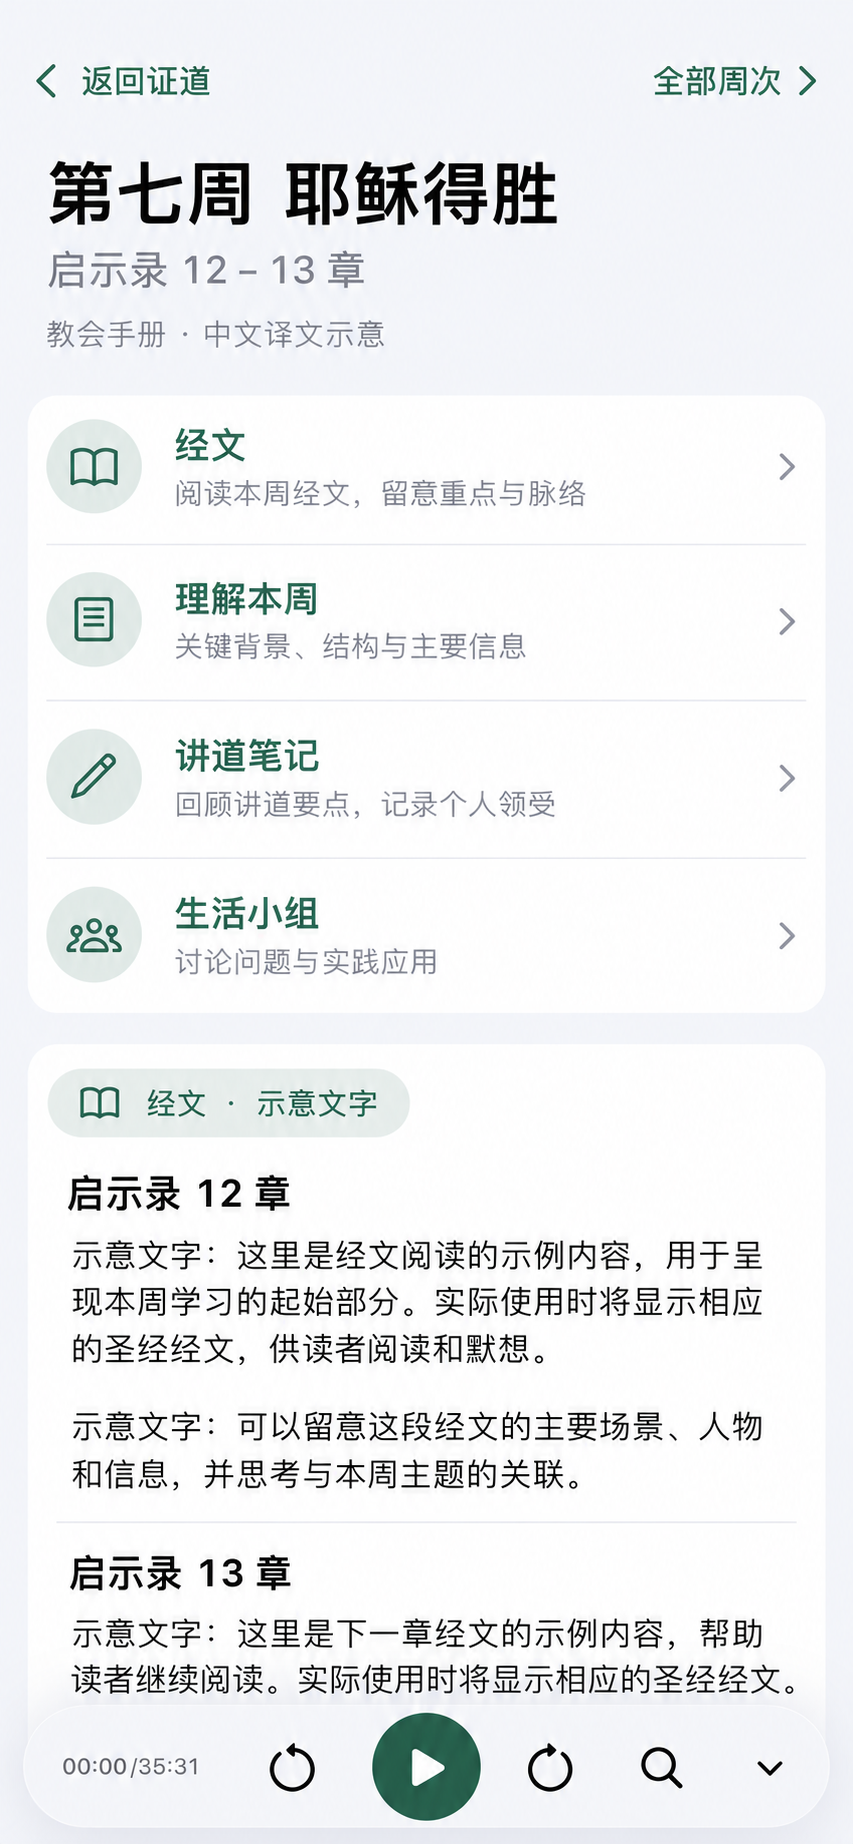
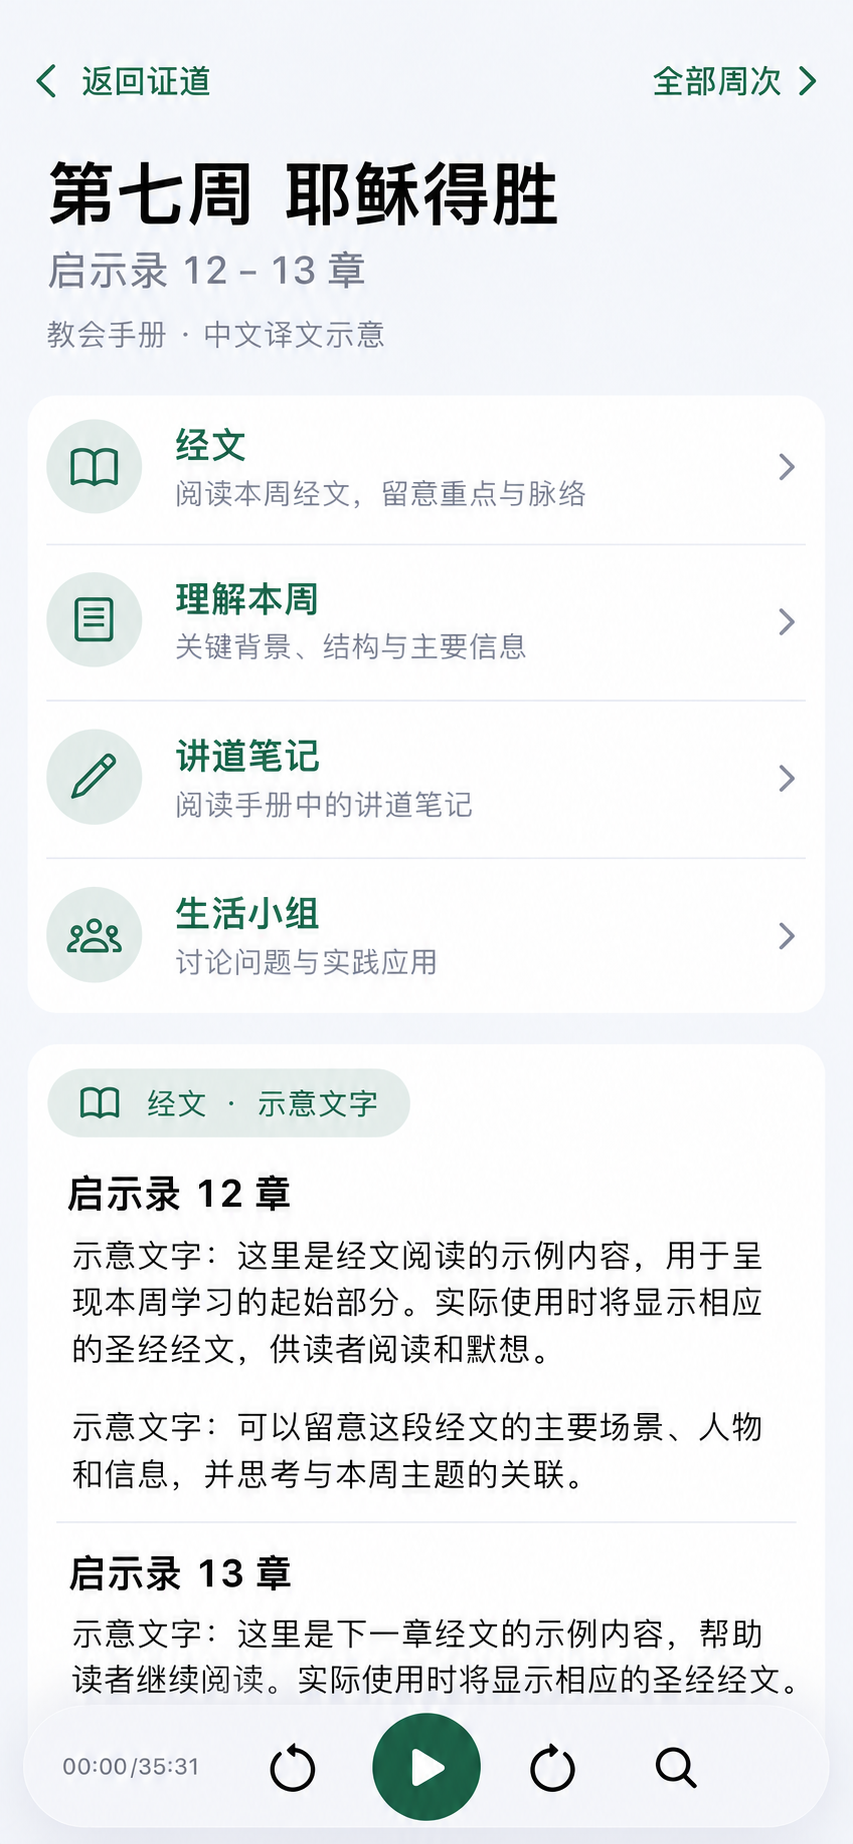
docs: show guide entry and simplify playback bar

diff --git a/docs/design/tongxing-weekly-study-guide.zh.md b/docs/design/tongxing-weekly-study-guide.zh.md
@@ -21,7 +21,11 @@
 
 ### 从证道进入
 
-在当前证道原研读入口的位置显示「本周研读手册」。只有目录有明确关联时才展示入口；没有关联时不额外占据证道页面，也不猜测周次。入口旁可显示「第 7 周 · 启示录 12–13 章」。点入以系统导航和阅读页呈现，返回后仍是原证道和原播放状态；阅读不会启动、暂停或重置播放器。若手册正在加载，显示加载状态；下载失败提供重试及可用的已验证离线版本提示，退出阅读不影响证道。
+在首页当前讲道标题下、语言控制附近的原研读入口位置显示一行「本周研读手册」：左侧用同行绿的系统书本图标（候选 SF Symbols `book`），右侧为前进指示；图标与文字组成同一个完整点击区域，VoiceOver 读出「本周研读手册」，不能只靠图标辨义。只有目录有明确关联时才展示入口；没有关联时不额外占据证道页面，也不猜测周次。点入以系统导航和阅读页呈现，返回后仍是原证道和原播放状态；阅读不会启动、暂停或重置播放器。若手册正在加载，显示加载状态；下载失败提供重试及可用的已验证离线版本提示，退出阅读不影响证道。
+
+![首页手册入口概念图](../assets/tongxing-weekly-guide-home-concept.png)
+
+首页图是 AI 生成的布局示意，不是运行截图；其示例讲道与下方第 7 周阅读页是各自的示意状态，不代表已核对的周次映射。手册入口行的向右箭头表示进入手册，不是播放栏缩小按钮。
 
 阅读页按内容本身组织，缺少的区块不显示：
 
@@ -37,7 +41,7 @@
 
 ### 界面与交互细化
 
-用户选择第 2 个目录式方案，并要求实际浮窗适配 iOS 27.1。以下图片是按选择调整的 **AI 生成概念图**，用于讨论信息层级和浮层方向，正文与问题是示意文字，不是教会原文，也不是 iOS 截图；图中「记录个人领受」不代表第一版支持输入或保存。视觉和交互须以真实 SwiftUI 和截图核对。
+用户选择第 2 个目录式方案，并要求实际浮窗适配 iOS 27.1。以下图片是按选择调整的 **AI 生成概念图**，用于讨论信息层级和浮层方向，正文与问题是示意文字，不是教会原文，也不是 iOS 截图。视觉和交互须以真实 SwiftUI 和截图核对。
 
 ![目录式手册阅读界面与浮动播放栏概念图](../assets/tongxing-weekly-guide-ios-concept.png)
 
@@ -53,6 +57,8 @@
 ### iOS 27.1 浮层与适配
 
 手册阅读使用系统大尺寸 sheet 或等效系统导航容器，保留系统圆角与自适应呈现；不把长正文铺在玻璃上。普通竖屏的播放控制使用现有 `PlaybackDock` 和唯一 `PlaybackController`，采用单层 `.regular` Liquid Glass，并通过已有 `listeningBottomBar` 在 iOS 26 及以上接入 `safeAreaBar` 与滚动边缘；正文末尾必须能滚到控件之上，不能只叠加悬浮图层。
+
+按照用户决定，首页和手册页的播放栏不再提供最小化：移除右侧向下箭头和缩小／展开状态，同时移除对应拖动手势、上下文菜单及 VoiceOver 收起／展开操作与提示；保留播放／暂停、前后微调、时间及放大镜定位／更多操作。大字号或宽度不足时仍可使用自适应布局，但不能悄悄进入只有播放键的最小化状态。实际改动涉及共用 `PlaybackDock` 的其他页面及竖向系统栏，必须同步核对所有宿主与对应 UI 测试；本 PR 不改变现有 App 行为。
 
 iOS 27.1 提供竖向系统工具栏时，手册容器也应按主收听页同样的环境条件适配系统侧栏，按实际安全区与激活的 `.division` 区域避让；不能按机型名称或固定坐标猜测。现有主页面已有相关适配，但当前阅读 sheet 并不会自动继承它，须在实现中处理并验证。播放「更多」面板复用现有按按钮实际位置、遮挡区域与空间计算的逻辑，空间不足时退回系统 sheet，不另造固定位置浮窗或叠加第二层玻璃。
 
